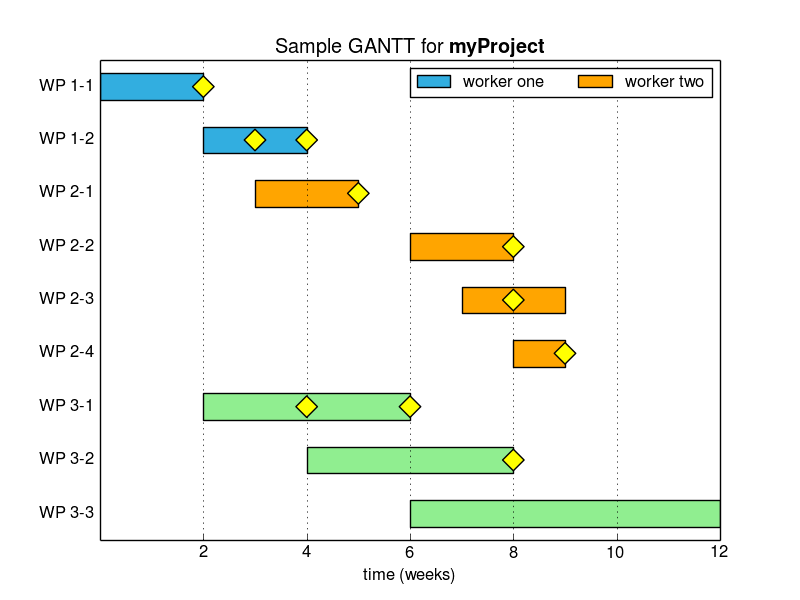
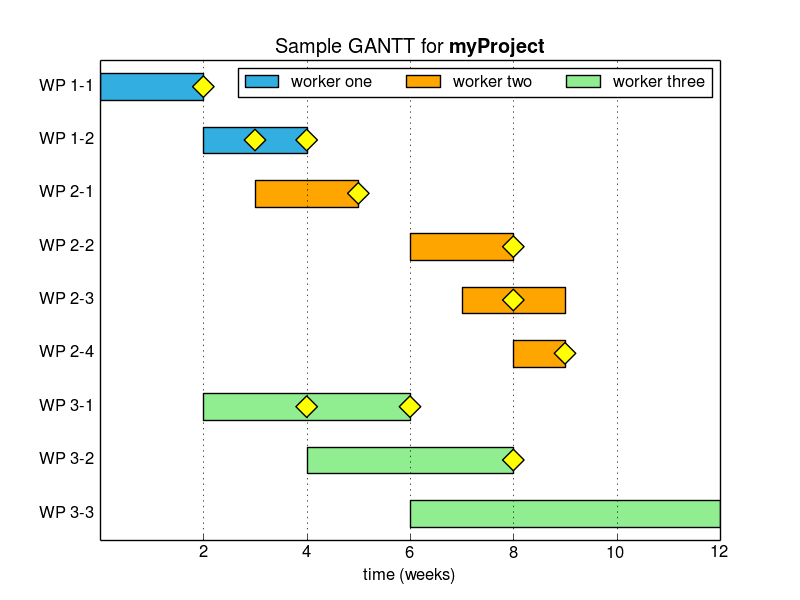
[Docs]
Update docs, screenshot and runner

Changed region(s): [[0.2812, 0.09, 0.875, 0.18]]

diff --git a/runner.py b/runner.py
@@ -4,6 +4,6 @@ Wrapper function to use the Gantt class
 """
 from gantt import Gantt
 
-g = Gantt('./tests/basics.json')
+g = Gantt('./sample.json')
 g.render()
 g.show()

diff --git a/Readme.md b/Readme.md
@@ -1,65 +1,58 @@
 [![Build Status](https://travis-ci.org/stefanSchinkel/gantt.svg?branch=master)](https://travis-ci.org/stefanSchinkel/gantt)
 ###README
 
-Gantt is a python class to produce, well, Gantt charts.
-The charts are kept (very) simple, using a discreet time scale,
-unicolor bars and optional milesstones.
+Gantt is a python class to produce, well, Gantt charts. The charts are kept (very) simple, using a discreet time scale, unicolor bars and optional milesstones.
 
 ###Background
-Gantt charts are commonly used in project management. I wanted to  make one myself and LibreProject was way too involved for the project in question.
-Hence I used OpenOffice Calc and made a plain horizontal bar chart.
-That took little time but was ok. Then I needed to add milestones (basically just a marker) to the chart. I completely failed doing this in OpenOffice (and still don't know how to do that ...).
+Gantt charts are commonly used in project management. I wanted to  make one myself and LibreProject was way too involved for the project in question. Hence I used OpenOffice Calc and made a plain horizontal bar chart. That took little time but was ok. Then I needed to add milestones (basically just a marker) to the chart. I completely failed doing this in OpenOffice (and still don't know how to do that ...).
 
 Long story short: I don't know how to [excel](https://xkcd.com/559/).
 
 ### Basic usage
 
 ```python
-from gantt import Gantt # import
-g = Gantt("data.json")  # init
-g.render()              # render
+
+from gantt import Gantt
+g = Gantt('./sample.json')
+g.render()
 g.show()                # or save w/ g.save('foo.png')
+
 ```
+
+Or simply call `runner.py`
 
 ### Data structure :construction:
 
 All data is provided as a JSON structure that **has to contain**:
 
- - a key **packages** containing an array of package definitions with **label**, **end** and **start**. Start and end value are discreet.
+ - a key **packages** containing an array of package definitions with **label**, **end** and **start**. Start and end values are discreet.
  - a **title** string (may contain TeX, escaped)
 
 ```json
 
 {
-"packages" : [
-    { "label" : "WP 1",
-      "start": 0,
-      "end": 3
-    },
-    { "label" : "WP 2",
-      "start": 4,
-      "end": 6,
-      "milestones" : [5],
-      "color" : "#FFCC00"
-    }
+  "packages": [
+  { "label" : "WP 1-1",
+    "start": 0,
+    "end": 2,
+    "milestones" : [2],
+    "legend": "worker one"
+  },
+  { "label" : "WP 1-2",
+    "start": 2,
+    "end": 4,
+    "milestones" : [3, 4]
+  }
   ],
 
-"title" : "Sample GANTT for \\textbf{myProject}"
-}
-```
-The milestones and colors are optional and the title may contain TeX.
-Optionally the JSON may also contain:
-
- - a label for the x-axis
- - a definition of where set tickmarks
-
-```json
-
-{
+"title" : " Sample GANTT for \\textbf{myProject}",
 "xlabel" : "time (weeks)",
-"xticks" :  [2,4,6,8,10,12]
+"xticks" : [2,4,6,8,10,12]
 }
+
 ```
+The milestones, colors and legend entry are optional as are the label for the x-axis and the definition of the tickmarks.
+The title may contain TeX, but make sure your system supports it. For
 
 See [sample.json](./sample.json) for the data used to produce the image below.
 ### Requirements
@@ -71,7 +64,7 @@ See [sample.json](./sample.json) for the data used to produce the image below.
  - nicer data structure (JSON) :white_check_mark:
  - dedicated class for packages :white_check_mark:
  - dynamic TeX support :white_check_mark:
- - add parameter object/dict for more control over colors etc
+ - add parameter object/dict for more control over colors etc :construction:
 
 ###Screenshot
 ![Sample Gantt with milestone](img/GANTT.png)
